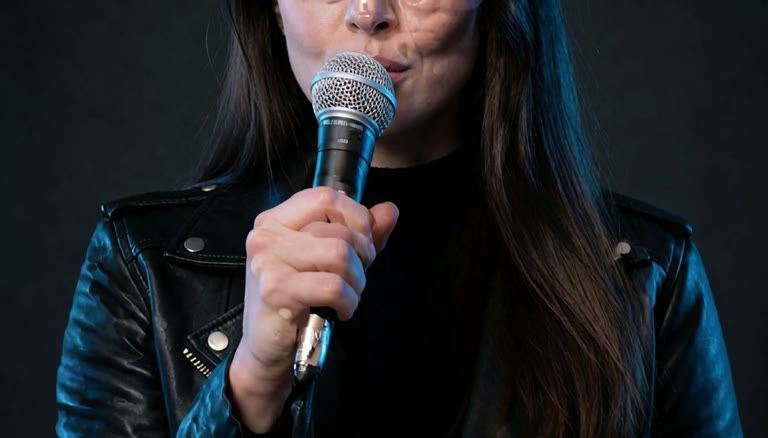
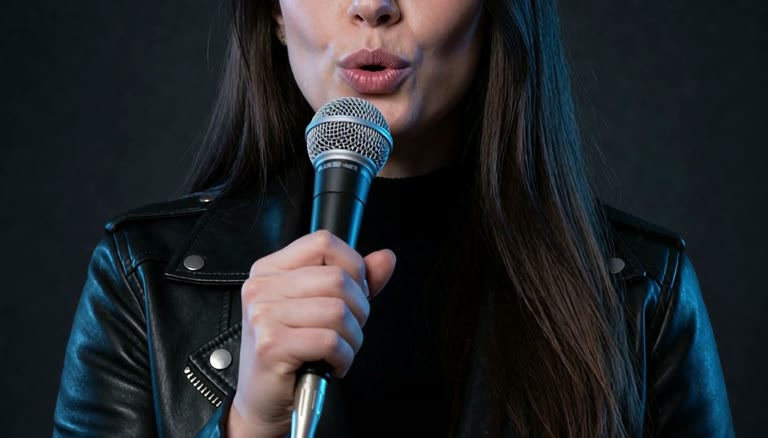
fix: Two-Stage pack 1.0.1 - first pass 0.6x, not 0.45x (wrinkled close-up faces)
Michael spotted the i2v test face going wrinkly from the third second. Eight
diagnostic arms on the engine: the pinch is already in the 608x352 stage-1
decode, and no stage-2 change (no frame anchor, chunking off, softer sigmas)
removes it. Stage 1 at 0.6x (800x448, ~0.36 MP) renders the same shot clean;
0.75x is clean too but at 557 s.

Re-measured through the app at 1344x768 / 5 s: i2v 351 s, r2v 259 s,
t2v 248 s, against 882 s for a direct 20-step 768p render. Previews refreshed
from the 0.6x renders. Apex's "0.3 MP minimum first pass" was right.

diff --git a/README.md b/README.md
@@ -46,7 +46,7 @@ All the MiniMax H3 packs generate video *with synchronized stereo audio*. The fi
 | MiniMax H3 (Turbo LoRA, larryvrh) | 3 | MiniMax H3 (pruned INT8) | The default: 6–8 steps, best for static/small motion. Named for the LoRA author to stay clear of SimpliGen's own official H3 Turbo pack |
 | MiniMax H3 (Turbo, Fast Motion) | 3 | MiniMax H3 (pruned INT8) | 4-step tier tuned for heavy/fast motion |
 | MiniMax H3 (Sol-Attn + EasyCache) | 3 | MiniMax H3 (pruned INT8) | Sparse attention + step caching at the full 20 steps. **Not a speed pick** since 1.50.0 — pick it for the no-LoRA path, and for the R2V preset, which is the crash-free route for reference *video*. Needs Faster Attention ON |
-| MiniMax H3 (Two-Stage Latent Upscale) | 3 | MiniMax H3 (pruned INT8) | Full 20 base steps at ~0.2 MP, trained latent upscaler, 4-step Turbo refine at your chosen size. Stock non-distilled look at 768p in ~205-246 s on 12 GB where a direct full-steps render took 424 s. Not faster than DaSiWa's direct 768p; pick it for the look. Verified at 768p / 5 s only |
+| MiniMax H3 (Two-Stage Latent Upscale) | 3 | MiniMax H3 (pruned INT8) | Full 20 base steps at 0.6x size (~0.36 MP), trained latent upscaler, 4-step Turbo refine at your chosen size. Stock non-distilled look at 768p in 248-351 s on 12 GB where a direct full-steps render took 882 s. A smaller first pass wrinkles close-up faces, so 0.6x is the floor. Verified at 768p / 5 s only |
 | MiniMax H3 (Turbo, Fully Accelerated) | 3 | MiniMax H3 (pruned INT8) | Every technique stacked — Turbo + SageAttention + Sigma Shift + Spectrum + Sol-Attn. 10 steps for roughly what 6 used to cost |
 | MiniMax H3 (10Eros Max) | 3 | MiniMax H3 (**non-pruned** INT8) | Different base — a separate 20.94 GiB download. Plain 20-step, T2V + I2V + R2V |
 | MiniMax H3 (10Eros Max + Turbo) | 3 | MiniMax H3 (**non-pruned** INT8) | The same base at 6 steps — the fastest preset here. Shares the 20.94 GiB download with the pack above |
